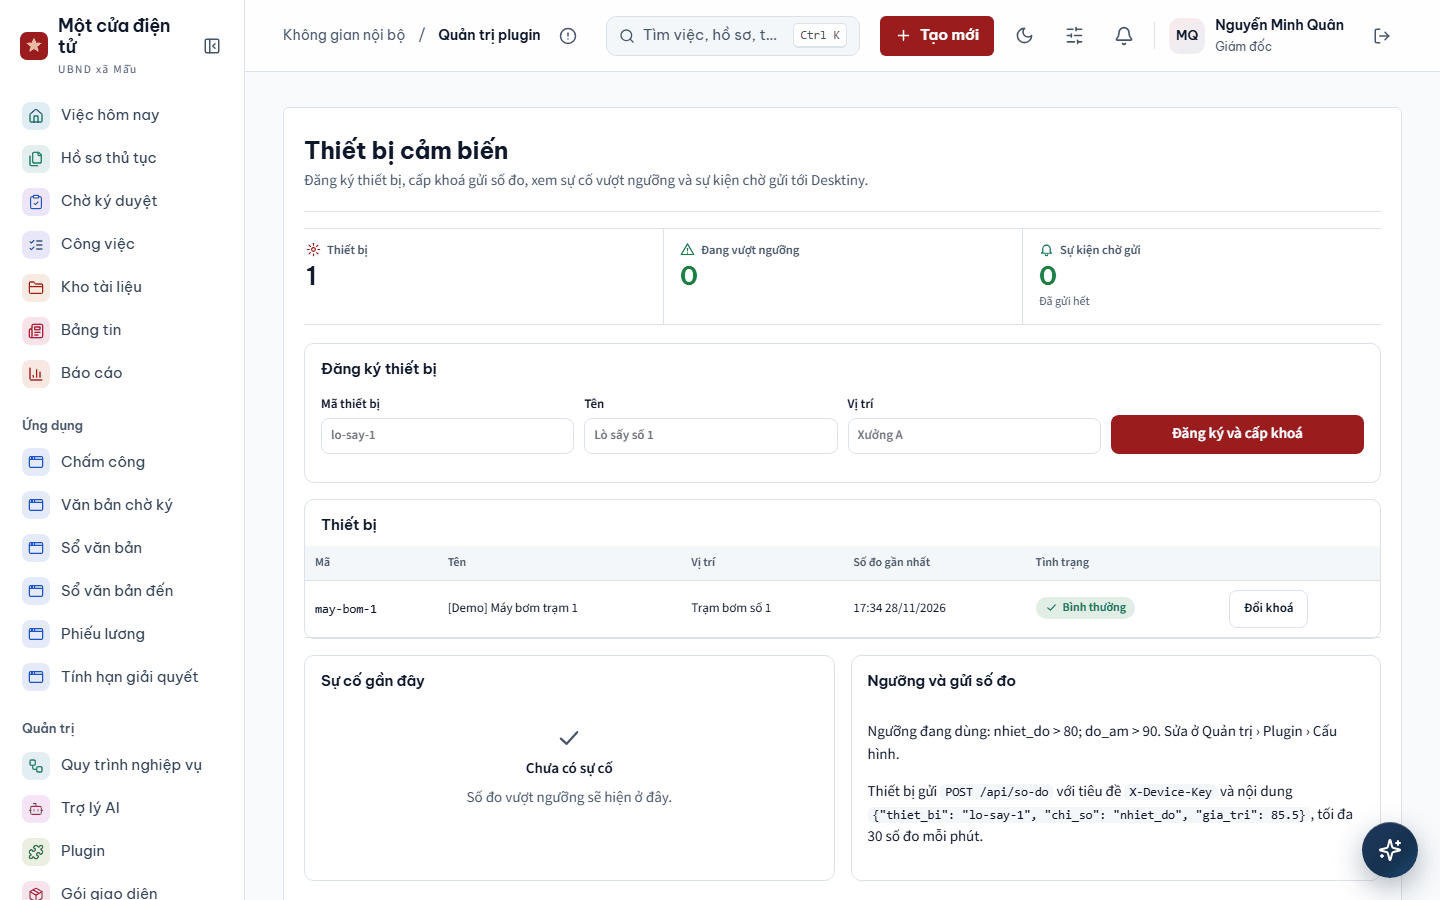
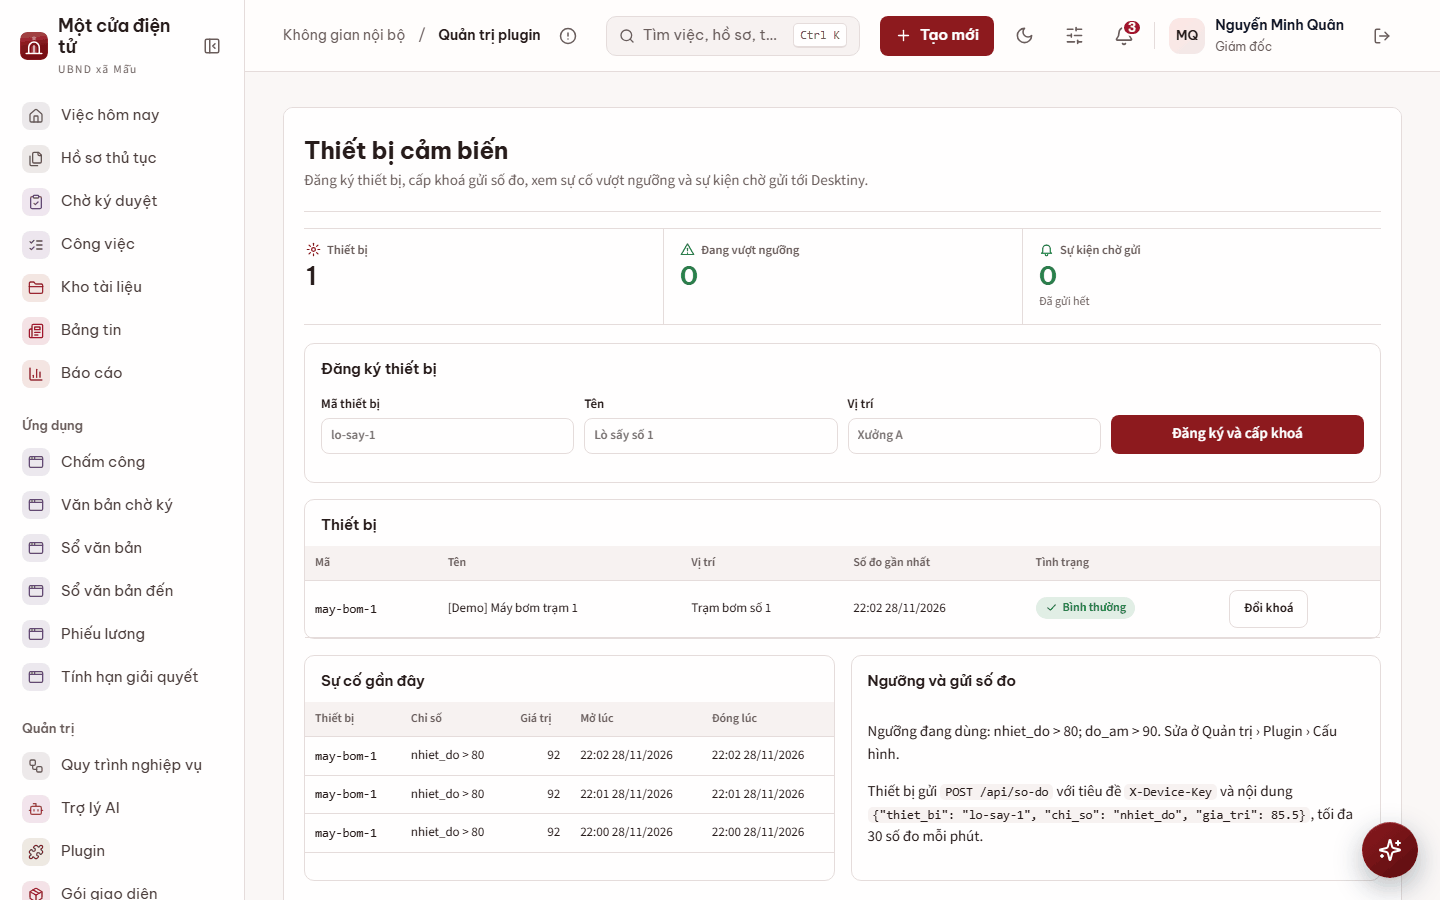
docs: ảnh ghép đầu trang, chế độ tối, điện thoại, gói mới và GIF cảm biến (dữ liệu mẫu giả)

diff --git a/README.md b/README.md
@@ -136,13 +136,24 @@ mới); Python 3.11+ để đóng gói; Docker cho máy chủ plugin kết nối
 
 Ảnh chụp từ bản demo với dữ liệu mẫu giả (nguồn: [`docs/images/README.md`](docs/images/README.md)).
 
-| ![Trang chủ Desktiny sau khi cài gói Một cửa cấp xã](docs/images/mot-cua-trang-chu.png) | ![Desktiny trước và sau khi cài gói giao diện](docs/images/goi-giao-dien.png) |
-|---|---|
-| Cán bộ một cửa mở trang chủ đã đổi từ ngữ, màu và khối việc cần làm | Quản trị viên cài một gói và cả giao diện, từ ngữ, quy trình đổi theo |
+<p align="center">
+<img src="docs/images/goi-truoc-sau.png" width="100%" alt="Giao diện mặc định và giao diện sau khi cài gói Một cửa"><br>
+<sub>Cùng một Desktiny trước và sau khi cài gói “Một cửa cấp xã”</sub>
+</p>
+
+<table>
+  <tr>
+    <td width="33%"><img src="docs/images/goi-mot-cua.png" width="100%" alt="Trang chủ Desktiny với gói Một cửa cấp xã"><br><sub>Một cửa cấp xã</sub></td>
+    <td width="33%"><img src="docs/images/goi-nhan-su.png" width="100%" alt="Trang chủ Desktiny với gói Nhân sự doanh nghiệp"><br><sub>Nhân sự doanh nghiệp</sub></td>
+    <td width="33%"><img src="docs/images/goi-van-thu.png" width="100%" alt="Trang chủ Desktiny với gói Văn thư – điều hành"><br><sub>Văn thư – điều hành</sub></td>
+  </tr>
+</table>
+
 | ![Plugin Sổ văn bản](docs/images/plugin-so-van-ban.png) | ![Plugin Chấm công](docs/images/plugin-cham-cong.png) |
+|---|---|
 | Văn thư cấp số văn bản đi liên tục, không nhảy số | Nhân viên chấm công bằng vị trí trên điện thoại |
 | ![Plugin Cảm biến](docs/images/plugin-cam-bien.png) | ![Plugin Lưu trữ lịch sử](docs/images/plugin-luu-tru.png) |
-| Người phụ trách thấy chỉ số nào đang vượt ngưỡng | Quản trị viên kiểm tra chuỗi băm của hồ sơ đã lưu trữ |
+| Người phụ trách thấy thiết bị và các lần vượt ngưỡng | Quản trị viên kiểm tra chuỗi băm của hồ sơ đã lưu trữ |
 
 <p align="center">
 <img src="docs/images/cong-nop-dien-thoai.png" alt="Cổng nộp hồ sơ trực tuyến trên điện thoại" width="220"><br>
@@ -151,7 +162,7 @@ Người dân nộp hồ sơ ngay trên điện thoại.
 
 ![Đổi nghiệp vụ bằng cách cài gói](docs/media/gif-doi-nghiep-vu.gif)
 
-*Quản trị viên cài một gói và Desktiny chuyển sang nghiệp vụ mới.*
+*Quản trị viên chọn gói giao diện; cả ứng dụng đổi sang Một cửa rồi Nhân sự.*
 
 ![Người dân nộp hồ sơ, cán bộ nhận](docs/media/gif-cong-dan-nop.gif)
 
@@ -177,6 +188,11 @@ gợi ý và những gì cần sửa trước khi dùng thật. Tên cơ quan tr
 
 <p align="center">
 <img src="docs/images/luong-cam-bien-dong.svg" width="100%" alt="Sơ đồ động hai phần. Vận hành: thiết bị lo-say-1 gửi POST /api/so-do kèm X-Device-Key tới plugin Cảm biến cổng 9208; plugin chỉ giữ mã băm SHA-256 của khoá, lưu số đo vào SQLite, so ngưỡng nhiet_do lớn hơn 80. Số đo mẫu 65, 70, 92, 95, 93, 66, 64: số 92 mở sự cố và tạo đúng một sự kiện, số vượt tiếp theo không gửi thêm, số 66 đóng sự cố. Sự kiện ghi vào hàng đợi SQLite trước khi gửi; Desktiny tạm dừng thì thử lại mỗi phút với cùng Idempotency-Key. Desktiny nhận canh_bao_cam_bien, luồng tự động tạo hồ sơ sự cố dạng nháp, chủ luồng trình, bước Khắc phục giao người ghi trong nguoi_phu_trach, trưởng bộ phận xác nhận. Quản trị dữ liệu: hồ sơ được duyệt hoặc kết thúc, Desktiny gửi case.approved, case.closed ký HMAC tới plugin Lưu trữ lịch sử cổng 9209; plugin đọc hồ sơ bằng cases.read, che CCCD, điện thoại, email, ghi một dòng vào archive/YYYY-MM.jsonl, mỗi dòng có prev là sha256 của dòng trước">
+</p>
+
+<p align="center">
+<img src="docs/media/gif-canh-bao-cam-bien.gif" width="90%" alt="Cảm biến vượt ngưỡng tạo hồ sơ sự cố"><br>
+<sub>*Thiết bị gửi số đo vượt ngưỡng; plugin ghi sự cố và luồng tạo hồ sơ sự cố giao người phụ trách (dữ liệu mẫu giả).*</sub>
 </p>
 
 Số đo trên biểu đồ là số mẫu, theo cách chạy của `scripts/gia_lap_cam_bien.py`. Với Desktiny 3.1.0, bước chủ luồng

diff --git a/README_EN.md b/README_EN.md
@@ -138,13 +138,24 @@ customisations); Python 3.11+ for packaging; Docker for connected plugin servers
 
 Screenshots from the demo with fake sample data (provenance: [`docs/images/README.md`](docs/images/README.md)).
 
-| ![Desktiny home page after installing the commune one-stop pack](docs/images/mot-cua-trang-chu.png) | ![Desktiny before and after installing a theme pack](docs/images/goi-giao-dien.png) |
-|---|---|
-| A one-stop officer opens a home page with changed wording, colours and a to-do block | An administrator installs a pack and the theme, wording and workflows change with it |
+<p align="center">
+<img src="docs/images/goi-truoc-sau.png" width="100%" alt="Default look and the look after installing the one-stop pack"><br>
+<sub>The same Desktiny before and after installing the “commune one-stop” pack</sub>
+</p>
+
+<table>
+  <tr>
+    <td width="33%"><img src="docs/images/goi-mot-cua.png" width="100%" alt="Desktiny home page with the Commune one-stop pack"><br><sub>Commune one-stop</sub></td>
+    <td width="33%"><img src="docs/images/goi-nhan-su.png" width="100%" alt="Desktiny home page with the Company HR pack"><br><sub>Company HR</sub></td>
+    <td width="33%"><img src="docs/images/goi-van-thu.png" width="100%" alt="Desktiny home page with the Records office pack"><br><sub>Records office</sub></td>
+  </tr>
+</table>
+
 | ![Document register plugin](docs/images/plugin-so-van-ban.png) | ![Timekeeping plugin](docs/images/plugin-cham-cong.png) |
+|---|---|
 | A records clerk issues outgoing document numbers in sequence, with no gaps | An employee checks in using their phone's location |
 | ![Sensor plugin](docs/images/plugin-cam-bien.png) | ![History archive plugin](docs/images/plugin-luu-tru.png) |
-| The person in charge sees which reading is over its threshold | An administrator verifies the hash chain of archived cases |
+| The person in charge sees the device and each threshold breach | An administrator verifies the hash chain of archived cases |
 
 <p align="center">
 <img src="docs/images/cong-nop-dien-thoai.png" alt="Online submission portal on a phone" width="220"><br>
@@ -153,7 +164,7 @@ A citizen submits an application from their phone.
 
 ![Switching line of work by installing a pack](docs/media/gif-doi-nghiep-vu.gif)
 
-*An administrator installs a pack and Desktiny switches to the new line of work.*
+*An administrator picks a theme pack; the whole app turns into one-stop, then HR.*
 
 ![A citizen submits, an officer receives](docs/media/gif-cong-dan-nop.gif)
 
@@ -180,6 +191,11 @@ the samples are made up; regulations, deadlines and amounts are illustrations on
 <p align="center">
 <img src="docs/images/luong-cam-bien-dong.svg" width="100%" alt="Animated two-part diagram (Vietnamese labels). Operations: device lo-say-1 sends POST /api/so-do with X-Device-Key to the Sensor plugin on port 9208; the plugin keeps only a SHA-256 hash of the key, stores readings in SQLite and compares them with the threshold nhiet_do greater than 80. Sample readings 65, 70, 92, 95, 93, 66, 64: 92 opens an incident and sends exactly one event, later readings over the threshold send nothing more, 66 closes the incident. The event is queued in SQLite before sending; while Desktiny is down the plugin retries every minute with the same Idempotency-Key. Desktiny receives canh_bao_cam_bien, an automation creates a draft incident case, the flow owner submits it, the Fix step goes to the person in nguoi_phu_trach and the head of unit confirms. Data governance: when a case is approved or closed, Desktiny sends HMAC-signed case.approved and case.closed events to the Case history archive plugin on port 9209; the plugin reads the case with cases.read, masks national ID, phone and email, and appends one line to archive/YYYY-MM.jsonl whose prev field is the sha256 of the previous line">
 <br><sub>Animated diagram, labels in Vietnamese: a sensor reading over the threshold becomes one queued event, then an incident case for the responsible person; a closed case becomes one masked, hash-chained archive line.</sub>
+</p>
+
+<p align="center">
+<img src="docs/media/gif-canh-bao-cam-bien.gif" width="90%" alt="A sensor crossing its threshold creates an incident case"><br>
+<sub>*A device sends a reading above the threshold; the plugin logs an incident and a flow creates an incident case for the person in charge (fake sample data).*</sub>
 </p>
 
 The readings in the chart are samples, in the style of `scripts/gia_lap_cam_bien.py`. With Desktiny 3.1.0, the flow

diff --git a/docs/images/README.md b/docs/images/README.md
@@ -14,8 +14,6 @@ trong ảnh là **dữ liệu mẫu giả**: tên người, cơ quan, số CCCD,
 |---|---|---|---|
 | `vong-doi-ban-mo-rong-dong.svg` | Vòng đời bản mở rộng: đóng gói, cài và duyệt quyền, Desktiny chạy cùng máy chủ plugin và nguồn bên ngoài | [README](../../README.md), [README_EN](../../README_EN.md) mục Luồng dữ liệu | Vẽ tay SVG, 2026 |
 | `luong-cam-bien-dong.svg` | Số đo vượt ngưỡng thành hồ sơ sự cố (hàng đợi, thử lại); hồ sơ kết thúc thành dòng JSONL nối sha256 | như trên, mục Các bản mẫu | Vẽ tay SVG, 2026 |
-| `mot-cua-trang-chu.png` | Trang chủ Desktiny sau khi cài gói Một cửa cấp xã | [README](../../README.md), [README_EN](../../README_EN.md) mục Giao diện | Playwright, demo, 28/11/2026 |
-| `goi-giao-dien.png` | Cùng Desktiny trước và sau khi cài gói giao diện | như trên | Playwright, demo, 28/11/2026 |
 | `plugin-so-van-ban.png` | Plugin Sổ văn bản | như trên | Playwright, demo, 28/11/2026 |
 | `plugin-cham-cong.png` | Plugin Chấm công | như trên | Playwright, demo, 28/11/2026 |
 | `plugin-cam-bien.png` | Plugin Cảm biến thiết bị | như trên | Playwright, demo, 28/11/2026 |
@@ -23,6 +21,11 @@ trong ảnh là **dữ liệu mẫu giả**: tên người, cơ quan, số CCCD,
 | `cong-nop-dien-thoai.png` | Cổng nộp hồ sơ trực tuyến trên màn hình điện thoại | như trên | Playwright, demo, 28/11/2026 |
 | `../media/gif-doi-nghiep-vu.gif` | Quản trị viên cài một gói, Desktiny đổi nghiệp vụ | như trên | Playwright (chuỗi khung hình), demo, 28/11/2026 |
 | `../media/gif-cong-dan-nop.gif` | Người dân nộp hồ sơ, cán bộ nhận | như trên | Playwright (chuỗi khung hình), demo, 28/11/2026 |
+| `goi-truoc-sau.png` | Trước và sau khi cài gói Một cửa | README, README_EN | Ghép bằng Pillow từ ảnh chụp Playwright, dữ liệu mẫu giả |
+| `goi-mot-cua.png` | Trang chủ với gói Một cửa cấp xã | README, README_EN | Chụp bằng Playwright từ bản demo (mã nhánh tích hợp ngày 28/11/2026), dữ liệu mẫu giả |
+| `goi-nhan-su.png` | Trang chủ với gói Nhân sự doanh nghiệp | README, README_EN | Chụp bằng Playwright từ bản demo (mã nhánh tích hợp ngày 28/11/2026), dữ liệu mẫu giả |
+| `goi-van-thu.png` | Trang chủ với gói Văn thư – điều hành | README, README_EN | Chụp bằng Playwright từ bản demo (mã nhánh tích hợp ngày 28/11/2026), dữ liệu mẫu giả |
+| `../media/gif-canh-bao-cam-bien.gif` | Cảm biến vượt ngưỡng tạo hồ sơ sự cố | README, README_EN | Chụp bằng Playwright từ bản demo (mã nhánh tích hợp ngày 28/11/2026), dữ liệu mẫu giả |
 
 ## Ảnh trong README của từng bản mở rộng
 
